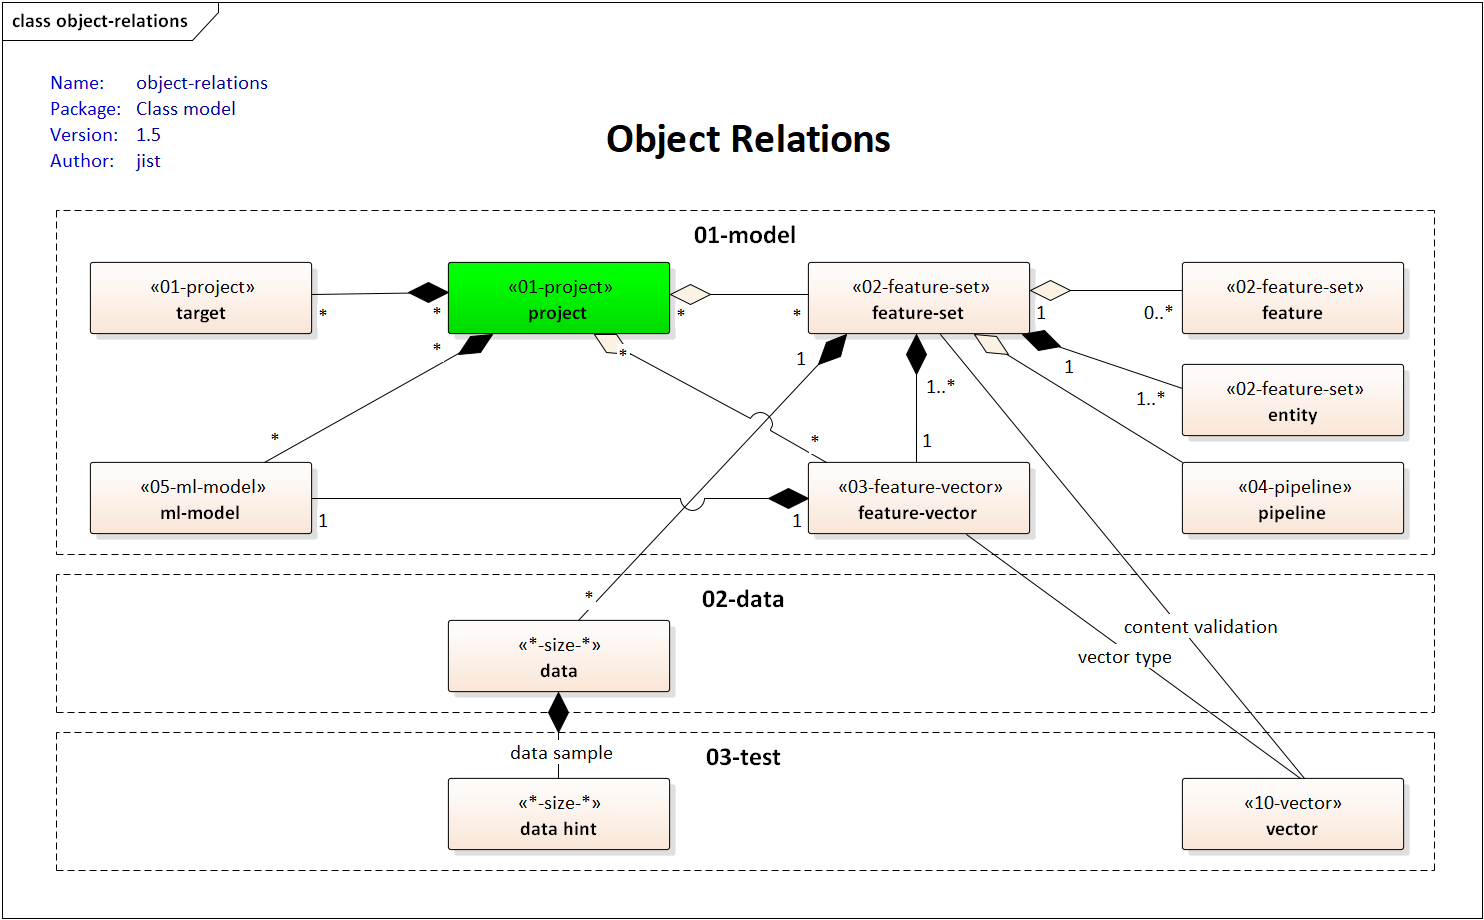
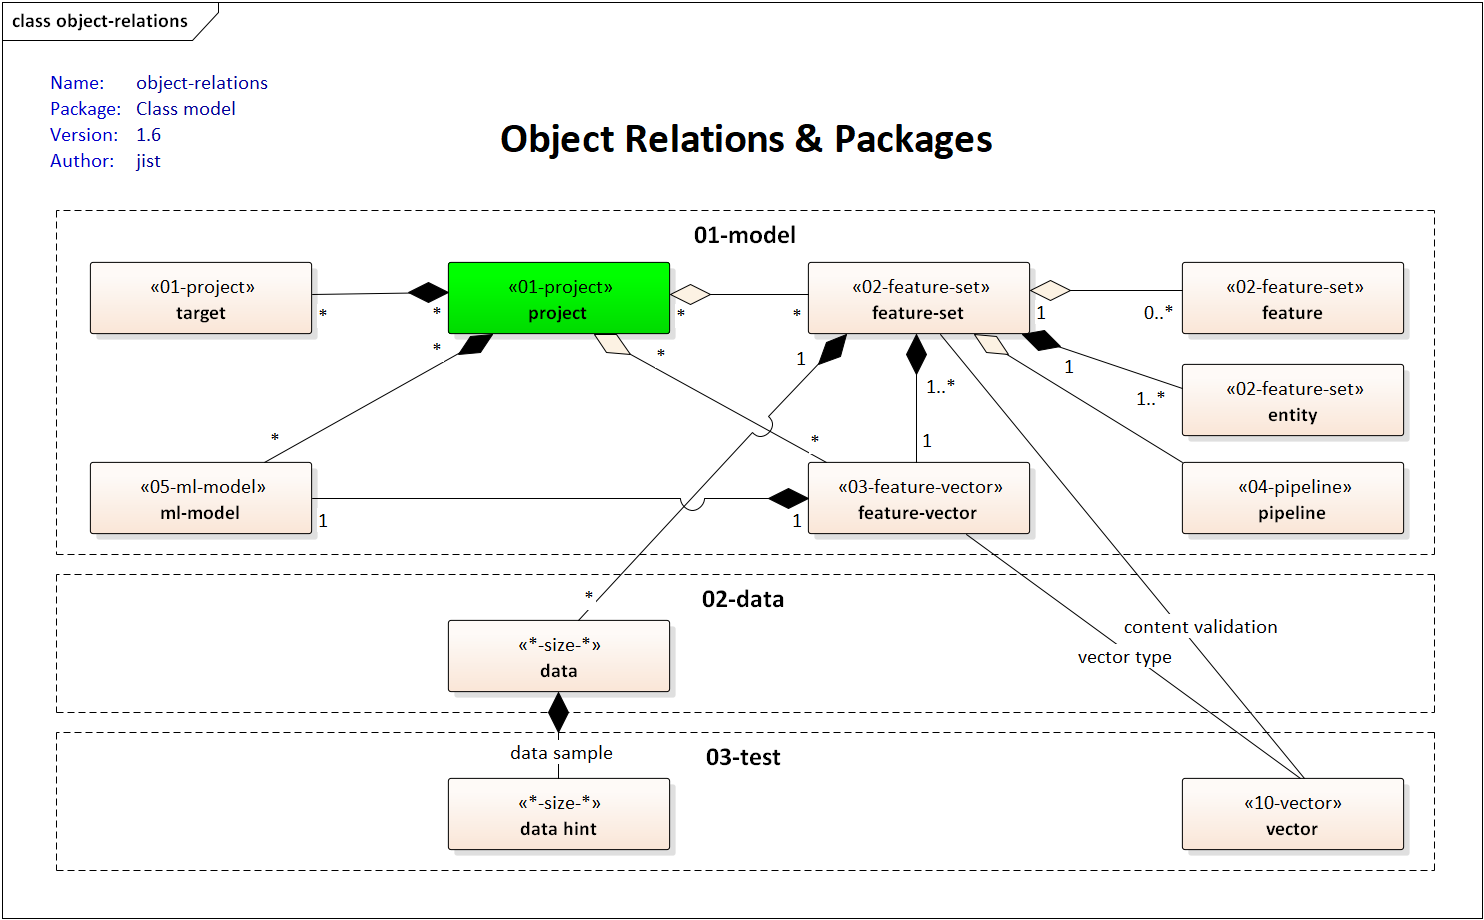
HL diagram

Changed region(s): [[0.341, 0.1217, 0.6819, 0.1826], [0.496, 0.4261, 0.527, 0.487], [0.403, 0.3652, 0.434, 0.3957]]

diff --git a/README.md b/README.md
@@ -56,7 +56,6 @@ The basic feature sets and relations between them.
 
 ![Basic-model](./00-high-level/basic-feature-sets.png)
 
-The derived feature sets and relations
-between them.
+The derived feature sets and relations between them.
 
 ![Derived-model](./00-high-level/derived-feature-sets.png)
